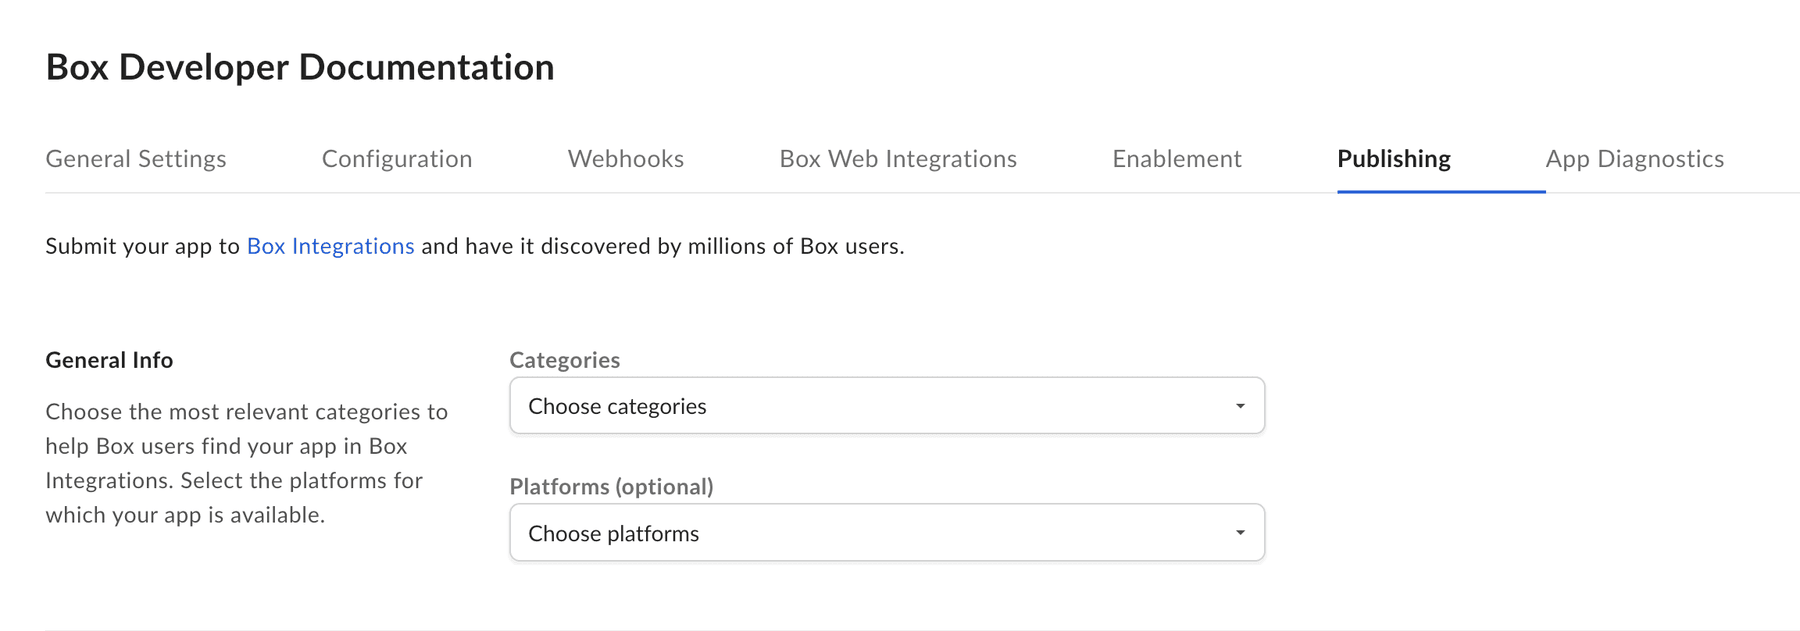
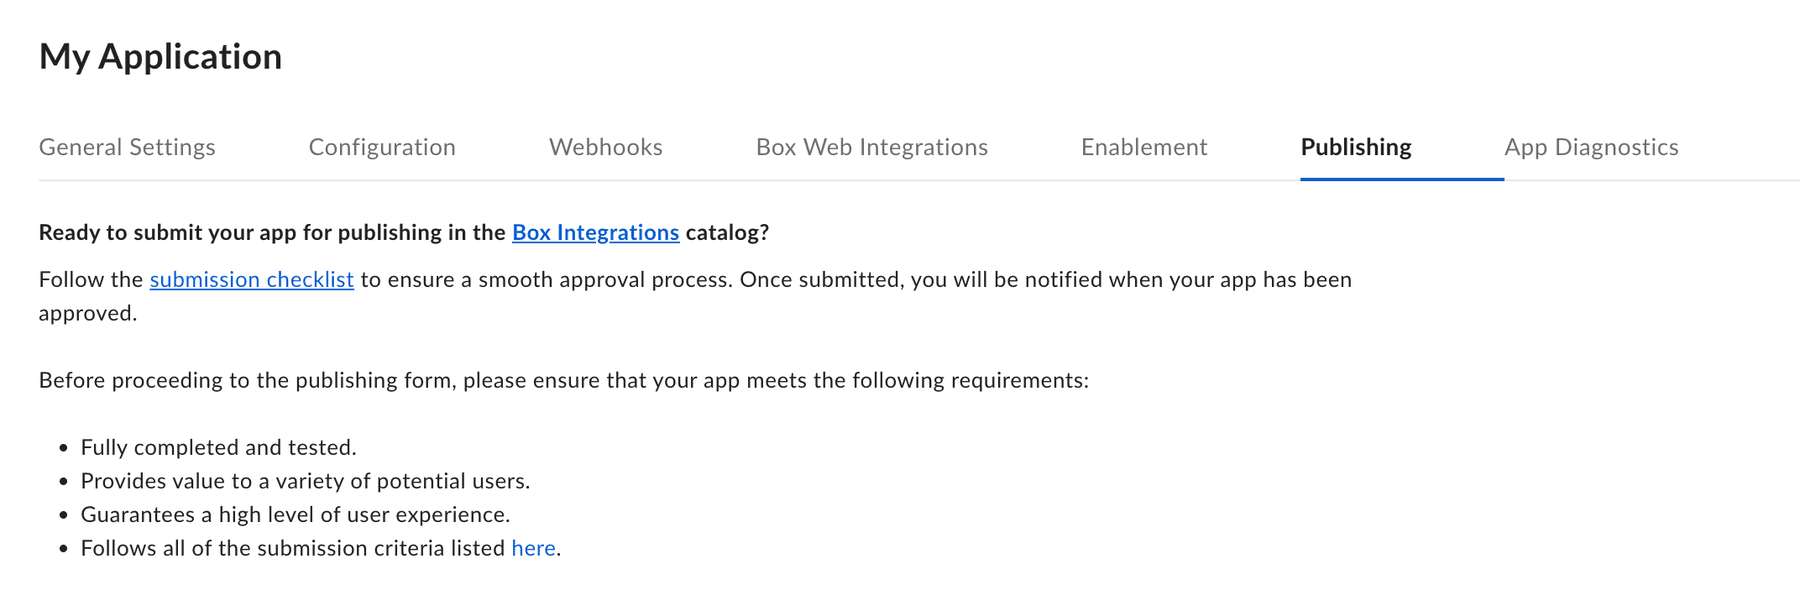
Update en to output generated at 55488d6

diff --git a/guides/applications/integrations/index.md b/guides/applications/integrations/index.md
@@ -25,62 +25,58 @@ source_url: >-
 ---
 # Integrations
 
-The [Box Integrations][app-center] is the first place for Box users to find out
-about applications that they can use in combination with Box. If your
-application is suited to be used by other enterprises, listing your service in
-the Integrations can be a great way to find new users.
-Integrations groups apps into sections so that you can
+[Box Integrations][app-center] is the first place for Box users to find out
+about applications they can use in combination with Box. If your
+application can be used by other enterprises, listing your service in
+under **Integrations** can be a great way to find new users.
+Integrations group apps into sections so that you can
 quickly find featured, most popular, or recently added apps.
 
 ![Integrations](./images/box-integrations.png)
 
-## Developing and app or becoming a Box Partner
+## Developing a platform app or becoming a Box Partner
 
-If you would more information on developing an application for the Box Integrations or becoming a Box Partner, visit our [Box Partner Resources][bp] guides on our community site.
+If you need more information on developing a platform app for the Box Integrations or becoming a Box Partner, visit our [Box Partner Resources][bp] guides on our community site.
 
-## Publishing an app
+## Publishing a platform app
 
-Use the following steps to publish an application in Box Integrations.
+Use the following steps to publish a platform app in Box Integrations.
 
 ### Prerequisites
 
 Your application must meet the following requirements:
 
-* The application is in a finished state and ready for production usage.
-* The application leverages OAuth 2.0 authentication, as the Integrations does not support any other authentication methods.
-* You are a developer with access to the application in the [Developer Console][devconsole].
+* The platform app is in a finished state and ready for production usage.
+* The platform app leverages OAuth 2.0 authentication, as Integrations do not support any other authentication methods.
+* You are a developer with access to the platform app in the **Developer Console**.
 
 ### Steps
 
-1. Navigate to the [Developer Console][devconsole] and select your application to submit.
+1. Navigate to the Developer Console > **My Platform Apps** and select the app you want to publish.
 2. Select the **Publishing** tab from the top menu.
 
-    ![Integrations panel](./images/publishing-app.png)
+    ![Publishing tab for an application](./images/publishing-app.png)
 
-3. Fill in the form with your application's categories, a short and a long description, screenshots and an app icon.
-4. Click **Preview** to see a preview of your application listing.
-5. Finally, submit the application for approval by clicking the **Submit for Approval** button.
+3. Read through the submission checklist and check the confirmation checkbox if your app meets all the requirements.
+4. Fill in the form by providing:
 
-<Message>
+    * the categories your app falls under
+    * a short and a long description 
+    * screenshots and an app icon
+    * supplementary information that will be used to support the users
 
-# Approval completion
+5. Use the **Preview** button in the top right corner to see how your application will look when listed.
+6. Finally, submit the application for approval by clicking the **Submit for Approval** button. Once a request for approval is received, the Box Partner team will be notified and review your request as soon as possible. For any questions, email [`integrate@box.com`][email].
 
-Once a request for approval is received, the Box Partner team will be
-notified and review your request as soon as possible.
+## Unpublishing a platform app
 
-For any questions, please email [`integrate@box.com`][email] or submit a
-support ticket.
+Once approved and published, a platform app can be unpublished from the same
+control panel:
 
-</Message>
-
-## Unpublishing an application
-
-Once approved and published, an application can be unpublished from the same
-control panel. Navigate to the [Developer Console][devconsole] and select
-your application. Then, select the **Integrations** panel from the left-hand
-sidebar. The app can be unpublished from this page.
+1. Navigate to the **Developer Console** and select your platform app. 
+2. Select the **Publishing** tab.
+3. You can now unpublish the app.
 
 [app-center]: https://app.box.com/services
-[devconsole]: https://cloud.app.box.com/developers/console
 [email]: mailto:integrate@box.com
-[bp]: https://support.box.com/hc/en-us/sections/360009473734-Box-Partner-Resources
+[bp]: https://support.box.com/hc/en-us/sections/21356597387539-Box-Partner-Programs

diff --git a/guides/getting-started/publish-app.md b/guides/getting-started/publish-app.md
@@ -13,48 +13,38 @@ previous_page_id: getting-started/first-application
 source_url: >-
   https://github.com/box/developer.box.com/blob/main/content/guides/getting-started/publish-app.md
 ---
-# Publish your application
+# Publish your app
 
-When you finish the app configuration and testing, you can publish
+When you finish the platform app configuration and testing, you can publish
 it in the [Box Integrations][integrations]. It allows customers to find
-your application and add it to their Box accounts.
+your app and add it to their Box accounts.
 
 <Message type='warning'>
 
-Only applications that use the OAuth 2.0 authentication have a
-built-in publication option. You can use other user authentication
-types, but such app can only serve as a marketing listing in the
-Integrations and redirect customers to your website.
+Only apps that use the OAuth 2.0 authentication have a built-in publication option. In case you use a different auth type for your integration, you can still create and publish an OAuth 2.0 platform app that will serve as a marketing listing in the **Integrations** and redirect customers to your website.
 
 </Message>
 
-To publish your app:
+To publish your platform app:
 
 1. Open the **Dev Console**.
-2. Select the application you want to publish.
-3. Go to the **Integrations** tab and submit your app.
+2. Select the platform app you want to publish.
+3. Go to the **Publishing** tab.
+4. Read through the submission checklist and check the confirmation checkbox if your app meets all the requirements.
+5. The next step is the marketing section of the app, where you need to add the following app information:
 
-This action gives you access to the marketing section of the
-application, where you need to add the following app information:
+    - **General Info** - choose correct categories and platforms for your app to make it easier to find in the Integrations,
+    - **Description** - make sure it contains all information about your app that the customers may find useful,
+        - **Short Description** appears next to your app logo, together with your app name;
+        - **Long Description** is what the users see after they select your app to view its details. You can add clickable links to the long description.
+    - **Screenshots** and **Icon** - provide the screenshots to allow the users see how the app looks like and how it integrates with Box. The icon is needed to represent your app in the list of Integrations.
+    - **Support Resources** - A list of links and supplementary information that will help the users to work with your app.
 
-- **General App Info** - choose correct categories and platforms for your application to make it easier to find in the Integrations,
-- **App Description** - make sure it contains all information about your application that the customers may find useful,
-    - **Short Description** appears next to your app logo, together with your app name;
-    - **Long Description** is what the users see after they select your app to view its details. You can add clickable links to the long description.
+6. Before submitting your app, preview it to see if you included all the necessary information.
+7. Submit your app for approval. Box will review your app and publish it under **Integrations**.
 
-<Message type='notice'>
-
-Specific guidelines for screenshots and logos are provided in the Dev
-Console.
-
-</Message>
-
-When you're finished with providing the details about your app,
-submit your app for approval. Box will review your application
-and publish it in the Integrations.
-
-In case of any questions or issues, contact the Partners team:
-[`integrate@box.com`][email]
+If you have any questions or issues, contact the **Partners** team:
+[`integrate@box.com`][email].
 
 [integrations]: https://cloud.app.box.com/integrations
 [email]: mailto:integrate@box.com
